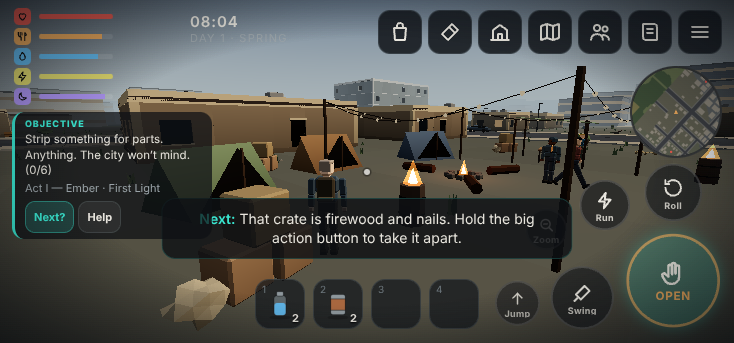
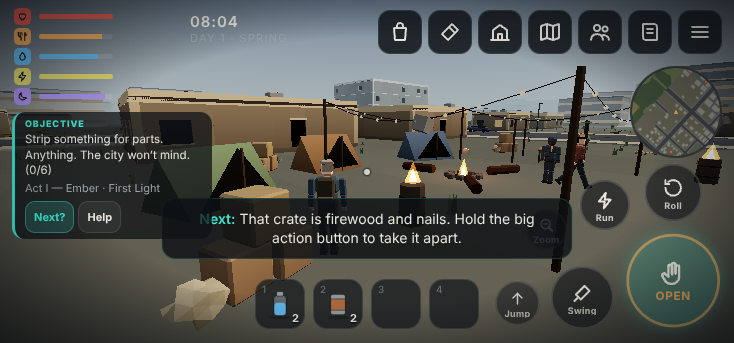
Phase 5 systems: Guild contracts, coop/pen output, deferred name claim, co-op remote rig fixes (verified with two real clients on wrangler dev); systems-flow test; before/after report + after captures
Claude-Session: https://claude.ai/code/session_01SR1Fv8d7mJoWGoXgmNhuZf

diff --git a/apps/game/src/game/trader.ts b/apps/game/src/game/trader.ts
@@ -1,7 +1,8 @@
 // Meridian Guild trader at the Haven camp (barter in Guild chits) and
 // readable lore terminals scattered through the ruins.
 import * as THREE from 'three';
-import { FACTION_MAP, addItem, buyPrice, changeRep, countItem, getItem, removeItem, sellPrice } from '@dg/sim';
+import { FACTION_MAP, addItem, buyPrice, changeRep, countItem, generateContract, getItem, removeItem, sellPrice, type Contract } from '@dg/sim';
+import { Rng } from '@dg/shared';
 import { CharacterRig, randomLook } from '../render/character';
 import { LORE_TERMINALS } from '../content/lore';
 import { audio } from '../audio/audio';
@@ -81,6 +82,10 @@ export class Trader {
     return out;
   }
 
+  itemName(id: string): string {
+    return getItem(id)?.name ?? id;
+  }
+
   chits(): number {
     return countItem(this.game.save.player.inventory, CHIT);
   }
@@ -116,6 +121,54 @@ export class Trader {
     const w = this.game.save.world;
     w.factions[FACTION] = changeRep(w.factions, FACTION, 0.5);
     audio.play('craft');
+    this.game.bus.emit({ type: 'inventory' });
+    return true;
+  }
+
+  /** Current Guild delivery contract (one at a time, stored in world flags). */
+  contract(): Contract | null {
+    const w = this.game.save.world;
+    const raw = w.flags['contract'];
+    let c: Contract | null = null;
+    if (typeof raw === 'string') {
+      try {
+        c = JSON.parse(raw) as Contract;
+      } catch {
+        c = null;
+      }
+    }
+    if (!c || c.expiresHour < w.hour) {
+      // only deliveries can be completed at the counter; reroll until we get one
+      const rng = new Rng(Math.floor(w.hour) * 7919 + 13);
+      for (let i = 0; i < 8; i++) {
+        const g = generateContract(rng, 'guild', Number(w.flags['rank'] ?? 1), w.hour);
+        if (g.kind === 'deliver' && g.item && g.count && getItem(g.item)) {
+          c = g;
+          break;
+        }
+      }
+      w.flags['contract'] = c ? JSON.stringify(c) : '';
+    }
+    return c;
+  }
+
+  deliverContract(): boolean {
+    const c = this.contract();
+    const inv = this.game.save.player.inventory;
+    if (!c?.item || !c.count) return false;
+    if (countItem(inv, c.item) < c.count) {
+      audio.play('deny');
+      this.game.toast(`You need ${c.count}× ${getItem(c.item)?.name ?? c.item} for this contract.`, 'bad');
+      return false;
+    }
+    removeItem(inv, c.item, c.count);
+    addItem(inv, CHIT, c.rewardChits);
+    const w = this.game.save.world;
+    w.factions[FACTION] = changeRep(w.factions, FACTION, c.rep);
+    w.flags['contract'] = '';
+    w.flags['contractsDone'] = Number(w.flags['contractsDone'] ?? 0) + 1;
+    audio.play('levelUp', { vol: 0.6 });
+    this.game.toast(`Contract done: +${c.rewardChits} Guild chits, Guild reputation up.`, 'warm');
     this.game.bus.emit({ type: 'inventory' });
     return true;
   }

diff --git a/apps/game/src/main.ts b/apps/game/src/main.ts
@@ -104,6 +104,7 @@ async function start() {
   ui.setJournalSource(() => journal(game));
   new CoopView(game, svc.coop);
   const trader = new Trader(game);
+  (window as unknown as { __trader: unknown }).__trader = trader;
   new Markers(game);
   new Guide(game, ui);
   town.onTalk = (s) => {
@@ -174,6 +175,24 @@ async function start() {
     const head = document.createElement('p');
     head.textContent = `Guild chits: ${trader.chits()}  ·  Reputation: ${Math.round(trader.rep)}`;
     wrap.append(head);
+    const ct = trader.contract();
+    if (ct?.item && ct.count) {
+      const box = document.createElement('div');
+      box.className = 'li';
+      const main = document.createElement('div');
+      main.className = 'main';
+      main.innerHTML = '<b></b><small></small>';
+      (main.firstChild as HTMLElement).textContent = `Contract: ${ct.title}`;
+      (main.lastChild as HTMLElement).textContent = `Bring ${ct.count}× ${trader.itemName(ct.item)} → ${ct.rewardChits} chits`;
+      const b = document.createElement('button');
+      b.className = 'btn small primary';
+      b.textContent = 'Deliver';
+      b.addEventListener('click', () => {
+        if (trader.deliverContract()) openTrade();
+      });
+      box.append(main, b);
+      wrap.append(box);
+    }
     const list = document.createElement('div');
     list.className = 'list';
     for (const kind of ['buy', 'sell'] as const) {
@@ -271,8 +290,9 @@ async function start() {
     hasSave = true;
     ui.hideMenu();
     if (!new URLSearchParams(location.search).has('autostart')) {
-      const wait = () => (game.mode === 'cinematic' ? setTimeout(wait, 500) : void svc.ensureAccount());
-      setTimeout(wait, 500);
+      // ask for a name once the player has done something worth saving (crafted a tool) or after 4 minutes
+      const wait = () => (game.mode !== 'play' || (game.onbStep < 6 && game.playtime + game.save.playtime < 240) ? setTimeout(wait, 1500) : void svc.ensureAccount());
+      setTimeout(wait, 1500);
     }
   };
   const origCont = game.continueGame.bind(game);

diff --git a/apps/game/src/game/town.ts b/apps/game/src/game/town.ts
@@ -137,7 +137,34 @@ export class Town {
     this.react(ev);
   }
 
+  /** Coops and pens produce into the Town Stockpile at dawn (needs feed/organic in stock for pens). */
+  private livestock(): void {
+    const w = this.game.save.world;
+    const day = Math.floor(w.hour / 24);
+    if (Number(w.flags['livestockDay'] ?? -1) === day || w.hour % 24 < 6) return;
+    w.flags['livestockDay'] = day;
+    const coops = w.pieces.filter((p) => p.piece === 'coop').length;
+    const pens = w.pieces.filter((p) => p.piece === 'pen').length;
+    if (!coops && !pens) return;
+    const add = (id: string, n: number) => {
+      let left = n;
+      for (const s of w.townStock) if (s && s.id === id) {
+        s.n += left;
+        left = 0;
+        break;
+      }
+      if (left) {
+        const i = w.townStock.findIndex((s) => !s);
+        if (i >= 0) w.townStock[i] = { id, n: left };
+      }
+    };
+    if (coops) add('food.egg', coops * 3);
+    if (pens) add('food.milk', pens * 2);
+    this.game.toast(`Morning chores: ${coops ? `${coops * 3} eggs` : ''}${coops && pens ? ' and ' : ''}${pens ? `${pens * 2} milk` : ''} into the Town Stockpile.`, 'warm');
+  }
+
   private react(ev: TownEvent[]): void {
+    this.livestock();
     let starving = 0;
     for (const e of ev) {
       this.boardEvents.push(e);

diff --git a/apps/game/src/game/coopview.ts b/apps/game/src/game/coopview.ts
@@ -104,11 +104,21 @@ export class CoopView {
         this.coop.sendAction({ type: 'time', hour: g.save.world.hour, weather: String(g.save.world.weather) });
       }
     }
-    if (this.rigs.size !== Math.max(0, this.coop.playerIds.length - 1)) this.syncRigs();
+    if (this.rigs.size !== this.coop.playerIds.length) this.syncRigs(); // playerIds = remote players only
     for (const [id, r] of this.rigs) {
       const s = this.coop.sample(id);
-      if (!s) continue;
+      // (0,0,0) is the server's placeholder before a player's first state message — never draw it
+      if (!s || (s.x === 0 && s.z === 0)) {
+        r.root.visible = false;
+        continue;
+      }
+      r.root.visible = true;
       const ox = r.root.position.x, oz = r.root.position.z;
+      // first real sample or a teleport: snap instead of sliding across the map
+      if (Math.hypot(s.x - ox, s.z - oz) > 25) {
+        r.root.position.set(s.x, s.y, s.z);
+        continue;
+      }
       r.root.position.set(s.x, s.y, s.z);
       r.root.rotation.y = s.yaw;
       const sp = dt > 0 ? Math.hypot(s.x - ox, s.z - oz) / dt : 0;

diff --git a/docs/quality/REPORT.md b/docs/quality/REPORT.md
@@ -1,0 +1,78 @@
+# Rework pass — before/after report
+
+All captures were taken headless (Chromium on SwiftShader).
+- **iPhone:** the Playwright "iPhone 14 Pro landscape" profile (852×393, touch, mobile).
+- **Desktop:** 1280×720.
+
+Folders:
+- `before/`: the live build at the start of this pass.
+- `phase1/`, `phase3/`, `phase4/`: intermediate captures.
+- `after/`: final.
+
+Re-capture with `node tests/quality-shots.mjs <label>`.
+
+**No real iPhone was used.** Frame-time and latency numbers below are logical (frames between input and response), not measured on hardware.
+
+## 1. Look and movement feel
+| Before | After |
+|---|---|
+| Raw touch deltas went straight to yaw/pitch, so tiny taps nudged the camera. | 5 px dead zone per touch, plus an acceleration curve (slow drags are precise, flicks turn fast), separate vertical sensitivity, and ≈30 ms smoothing. The camera responds **within 1 frame** of a touch move (`tests/feel.mjs`). |
+| No zoom. | Pinch on the look side, a **Zoom** button (near/mid/far) and the mouse wheel; limits 2.4–8 m. |
+| A big unlabelled **jump** button sat in the look-drag area. | Jump is small and bottom-left of the cluster, out of the drag path. Every control is labelled (Swing, Roll, Run, Jump, Zoom). All touch targets are ≥40 px (checked); the primary button is ≈94 px. |
+| Rotated cars and props used oversized AABBs (invisible walls). | Oriented-box colliders (unit-tested). The player stops within 0.02 m of releasing the stick (no sliding). |
+| The camera ray ignored props, sat 0.6 m from walls and clipped. | A thick 5-ray probe against everything; minimum 0.9 m; the player model fades when the camera is pressed against them. |
+| No stamina cue. | Hysteresis (once empty, no sprint until 30%), breathing sound, a cold vignette pulse and a one-line explanation. |
+| One footstep sound. | Grass, dirt, hard ground, wood floor, metal/rail and wet variants; dust kicks on dirt when running. |
+| No bob or sway. | Subtle bob and sway while moving, scaled down further by *Reduce screen shake*. |
+
+## 2. Interaction clarity
+| Before | After |
+|---|---|
+| No highlight in the world; the prompt said "E" even on touch. | The target gets a **tinted silhouette or box** in its type colour, plus a floating icon and verb ("Loot · hold: break apart"). The touch prompt no longer shows keyboard keys. |
+| Separate interact and attack buttons. | **One primary action button** whose label and colour follow the target (Loot, Break, Salvage, Talk, Trade, Craft, Plant, Harvest, Sleep, Reboot, Sync…). It shows "Locked" with the reason when blocked, and swings when there's nothing to interact with. |
+| No off-screen cue. | An edge arrow in the type colour when the target is off-screen or behind you. |
+| Corner toasts only. | Floating "+3 Timber" text at the source, plus the toast. |
+| Colour language: none. | Loot amber · Break white · Craft green · Talk blue · Door violet · Use/Grid cyan · Farm lime · Combat red. The legend is in Help. |
+
+## 3. Guidance
+| Before | After |
+|---|---|
+| Hints, district banner, Town Board and toasts all overlapped at top-centre. | An **objective tracker** under the meters; tutorial and tips moved to the bottom; banners trimmed on phones; toasts de-duplicated (×N) and capped at 3 on phones. |
+| No marker. | A **world beacon** with distance, and an edge arrow when off-screen. |
+| Meters were F/W/S/R. | Icons plus plain labels (Health, Food, Water, Stamina, Rest). Tapping them opens Help, which explains each one. |
+| No help. | A **Help** screen with device-specific controls, meter explanations, the colour legend, every tutorial step, the core loop, and *Replay the tutorial*. |
+| — | **Next?** picks the next best action (tutorial step → heal → drink/eat → sleep → feed the town → workbench → farm → assign a survivor → nearest offline node) and points the beacon at it. |
+| — | **Skip tutorial**, re-readable steps, and first-use tips (stamina, weight, bleeding, fracture, sickness, drones, nodes, full pack). |
+
+## 4. Graphics
+| Before | After |
+|---|---|
+| Downtown street read as near-black in the morning. | Exposure 1.32, a warmer and brighter bounce fill, sun trimmed. Ruins read cold and grey; Haven reads warm. |
+| Flat facades. | Per-floor tone, rain streaks under sills, shop sign boards (lit once the district is powered). |
+| Bare streets. | Sidewalk slab joints, cracks, litter, curb debris piles, cones and sandbags. None of it is interactive, so none of it is highlighted. |
+| Restored districts looked the same. | Restoration now changes the mesh: scrubbed and warmed walls, planter boxes, flowerbeds, no litter, lit signs and windows. Loaded chunks re-mesh off-thread when the state changes. |
+| Few particles. | Camp smoke columns, footstep dust, plus the existing hit sparks and debris. |
+
+## 5. Systems and back end
+| Before | After |
+|---|---|
+| **Runaway clock.** After the first in-game hour, town catch-up re-advanced the world clock every frame, so time raced (43.7 h in 6 s). Survivors starved in minutes, raid warnings spammed, and the season changed on day one. | **Fixed** (`town.advance` rewinds before the sim step). The smoke test asserts the clock rate: before 43.72 h in 6 s, after 0.66 h. |
+| The player could not feed the town. | **Town Stockpile** at the camp: deposit and withdraw. Survivors eat and build from it. Day-one stock covers about two days. |
+| Survivors could only be managed from the Ledger. | **Talk** to any survivor to see their mood and hunger and assign a job. |
+| Coop and pen pieces did nothing. | They produce eggs and milk into the stockpile every dawn. |
+| Guild trade only. | **Guild delivery contracts** at Odile (deliver → chits + reputation). |
+| Account claim popped up right after the intro. | Asked after the player has crafted their first tool, or after 4 minutes. |
+| Co-op had never run with two real clients. | Two real browser clients against the real Worker and Durable Objects (`wrangler dev`): host, join, presence, interpolated movement, shared prop removal, ping, and reconnect after a dropped socket — **all pass**. Fixed remote characters re-syncing every frame and sliding in from the world origin. |
+
+## Gates at the end of the pass
+- `npm run check`: PASS (162 unit tests including the new collision tests; lint 0 warnings; 0.56 MB payload; secret scan).
+- Smoke (now including the clock-rate check), feel, guide, systems-flow, grid-flow, raid-flow, defense-flow and the memory walk: all PASS.
+
+## Still weak (honest)
+- **Not tested on a real iPhone.** Touch feel, 60 fps, input latency and thermal behaviour are unverified on hardware. Headless SwiftShader runs at single-digit fps, so it only proves logic (frames, not milliseconds).
+- **Character animation** is still procedural: no real idle variations, no run cycle with weight, no hit/death animations beyond a flinch and fall.
+- **Graphics:** no true ambient occlusion or bloom (cost on iPhone). Props still come from the original worldgen density (more would change the world hash and break saves). Downtown is moody, but still mostly grey boxes up close.
+- **Outlines** are a tinted back-face silhouette, not a screen-space outline. Thin props (signs, fences) highlight less clearly.
+- **Not reachable in play:** stealth, hunting as a dedicated loop, cooking quality, faction events and the Act IV endings. Raids still don't have survivor guards fighting in-world.
+- **Live co-op over the public URL** remains unverified from this sandbox (WebSockets are blocked by its proxy). It was verified on the same code locally.
+- The tutorial's later steps (walls/roof/bed) assume the build menu flow; they haven't been play-tested end-to-end by a human.

diff --git a/PROGRESS.md b/PROGRESS.md
@@ -19,6 +19,18 @@
 
 To run it locally instead: `npm ci && npm run build && cd apps/game && npx vite preview` (offline), or `cd apps/server && npx wrangler dev` (game + API).
 
+### Rework pass (from the owner's iPhone test) — status
+Full before/after write-up: `docs/quality/REPORT.md`. The audit is in `docs/QUALITY_AUDIT.md`; screenshots are in `docs/quality/{before,phase1,phase3,phase4,after}/`.
+- **Feel:** smoothed touch look with an acceleration curve and dead zone, pinch/button/wheel zoom, labelled thumb-sized controls, jump moved out of the look path, oriented colliders, thick camera collision with near-fade, stamina cues, surface footsteps. Verified by `tests/feel.mjs`.
+- **Interaction:** type-coloured highlight, world marker, off-screen arrow, contextual primary button, floating pickups, blocked reasons.
+- **Guidance:** objective tracker, beacon, Next?, Help, skippable and replayable tutorial, first-use tips, labelled meters, toast de-dup. Verified by `tests/guide.mjs`.
+- **Graphics:** lighting rebalance, facade and ground detail, restoration-driven meshing, smoke.
+- **Systems:**
+  - Fixed the **runaway clock** (critical).
+  - Town Stockpile, survivor talk and jobs, livestock output, Guild contracts, deferred name claim.
+  - Two-client co-op verified against local `wrangler dev`.
+  - Verified by `tests/systems-flow.mjs` and `tests/coop-live.mjs`.
+
 ### What's playable now — a 5-minute tour
 1. **Main menu** sits over a live, slowly orbiting town. Tap **New Game**.
    - A cinematic swoop runs from high above the dead city down to Haven Lot, with the Act I card.

diff --git a/docs/QUALITY_AUDIT.md b/docs/QUALITY_AUDIT.md
@@ -77,3 +77,14 @@ Severity: **S1** breaks the experience, **S2** clearly hurts, **S3** polish.
 3. **Guidance.** Objective tracker with a world marker, a "Next?" button, help screen, meter labels, notification queue and dedupe, skippable and re-readable tutorial covering the full loop.
 4. **Graphics.** Lighting balance, facade detail and AO, street dressing, ground variety, restored-area transformation, ambient particles.
 5. **Systems.** Town stockpile, food balance, livestock/hunting/cooking hooks, survivor talk and assignment, contracts, first-hour signposting, claim timing, a real two-client co-op run (local `wrangler dev`).
+
+
+## Status after the rework pass
+Items 1.1–1.11, 2.1–2.7, 3.1–3.7, 4.1–4.5, 4.7, 5.1–5.3, 5.5–5.8 are addressed. See `docs/quality/REPORT.md`.
+
+Partially addressed or still open:
+- 2.8: searched containers are not marked.
+- 4.6: character animation.
+- 4.8: no true bloom.
+- 5.4: stealth, hunting loop, cooking quality, faction events and endings.
+- 5.9: owner-side CI secret.
